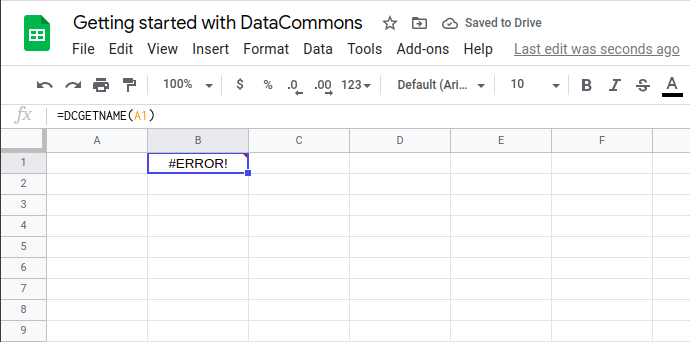
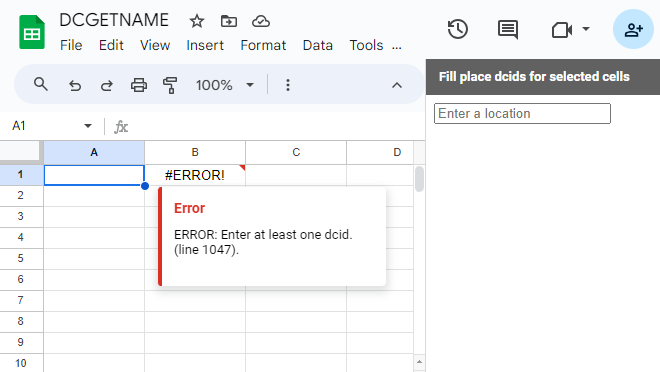
Updates to Sheets get_name.md file (#369)
* Updates to Sheets get_name.md file

* Updates from Carolyn's comments

* Forgot to update the Gemfiles

* Updates from Carolyn

* Added alt text to images

* Apply suggestions from code review

* Text and image updates

* remove obsolete images

* pr comments; formatting updates

* formatting updates

---------

diff --git a/api/sheets/get_name.md b/api/sheets/get_name.md
@@ -1,46 +1,72 @@
 ---
 layout: default
-title: Node Name
+title: Names Associated with a DCID
 nav_order: 1
 parent: Google Sheets
 grand_parent: API
 ---
 
-# Get a node's name
+# Returning the Names Associated with a DCID
 
-Given a cell or a column range of cells with [DCIDs](/glossary.html#dcid) (unique identifiers for all entities in the Data Commons knowledge graph), return the names associated with the given DCIDs.
+The `=DCGETNAME(dcids)` formula returns the names associated with given [DCIDs](/glossary.html#dcid) to a cell or a column range of cells.
 
-## General information about this formula
+> **Note**: Be sure to follow the instructions for [Installing and Enabling the Sheets Add-On](/api/sheets/) before using this formula.
 
-**Formula**: `=DCGETNAME(dcids)`
+## Formula
 
-**Required arguments**:
+```
+=DCGETNAME(dcids)
+```
 
-* `dcids` - A list of nodes to query, identified by their DCIDs.
+### Required Arguments
+
+`dcids` - A list of [node DCID](/glossary.html#dcid)s to query.
+
+## Returns
+
+The names associated with given node DCIDs to a cell or a range of cells.
+
+> **Note**: It’s best to minimize the number of function calls to `=DCGETNAME(dcids)` by using a single call to get the names for a column of nodes. This is because a spreadsheet will make one call to a Google server [*per custom function call*](https://developers.google.com/apps-script/guides/sheets/functions#optimization). If your sheet contains thousands of separate calls to `=DCGETNAME(dcids)` you can expect it to be slow and return with errors.
 
 ## Examples
 
-Before trying this method out, make sure to follow the setup directions in [the main section for Sheets docs](/api/sheets/index.html).
+This section contains examples of returning the names associated with given DCIDs.
 
-### Example 1: Retrieve the name of a country by its DCID.
+### Example 1: Retrieve the Name of a Place by its DCID
 
-![](/assets/images/sheets/sheets_get_name_cote_d_ivoire_cropped.png)
+To retrieve the name of a place by its DCID, perform the following steps:
 
-### Example 2: Retrieve the names of a collection of cell lines.
+1. Place your cursor in the cell where you want to add a DCID. In this case, cell A1.
+1. Move to the cell where you want to retrieve the place name.
+1. Enter the formula <code><b>=DCGETNAME(A1)</b></code> to retrieve the name.  *California* populates the cell.
 
-![](/assets/images/sheets/sheets_get_name_cell_lines_cropped.png)
+![Retrieving the name of a country by its DCIC](/assets/images/sheets/sheets_get_name_california.png)
 
->  **TIP:**
->
->  It's best to minimize the number of function calls to `DCGETNAME` by using a single call to get names for a column of nodes. This is because a spreadsheet will make one call to a Google server [per custom function call](https://developers.google.com/apps-script/guides/sheets/functions#optimization). If your sheet contains thousands of separate calls to `DCGETNAME`, expect it to be slow and with errors.
+### Example 2: Retrieve the Names of a Collection of Power Plants
 
+To retrieve the names of a collection of power plants, perform the following steps:
 
-## Error returns
+1. Enter into column A the DCIDs that are shown in the following image.
+1. In cell B2, enter the formula <code><b>=DCGETNAME(A2:A4)</b></code>. The names of the countries for each DCID populates in column B.
 
-If a DCID does not exist, this method returns nothing:
+![Retrieving the names of a collection of power plants](/assets/images/sheets/sheets_get_name_power_plant.png)
 
-![](/assets/images/sheets/sheets_get_name_wrong_dcid_cropped.png)
+### Example 3: Retrieve the names of a list of statistical variables
 
-If an empty cell is provided as a DCID, this method returns an error value:
+Statistical Variables are also nodes in the Data Commons Graph with a DCID. To retrieve the names of a list of statistical variables, perform the following steps:
 
-![](/assets/images/sheets/sheets_get_name_no_input_cropped.png)
+1. Enter into column A the DCIDs that are shown in the following image.
+1. In cell B2, enter the formula <code><b>=DCGETNAME(A2:A4)</b></code>. The names of the countries for each DCID populates in column B.
+
+![Retrieving the names of a collection of power plants](/assets/images/sheets/sheets_get_name_sv.png)
+
+## Error Responses
+
+If a DCID does not exist, the `=DCGETNAME(dcids)` formula does not return a value. For example, because the “geoId/123123123” DCID does not exist, no value is returned to cell B1 in the following sheet:
+
+![No value returned for a DCID that does not exist](/assets/images/sheets/sheets_get_name_wrong_dcid_cropped.png)
+
+If you provide an empty cell for a DCID, the `=DCGETNAME(dcids)` formula returns a value of #ERROR!, as shown show in the following image:
+
+![#ERROR! value returned for an empty cell for a DCID](/assets/images/sheets/sheets_get_name_no_input_cropped.png)
+

diff --git a/api/sheets/get_property.md b/api/sheets/get_property.md
@@ -27,10 +27,9 @@ The `=DCPROPERTY(dcids, property)` formula returns values associated with the gi
 
 ## Returns
 
-The value of the property label for the specified DCIDs.
+The values of the property label for the specified DCIDs.
 
 > **Note**:
-> 
 > It’s best to minimize the number of function calls to `=DCPROPERTY(dcids, property)` by using a single call to get the names for a column of nodes. This is because a spreadsheet will make one call to a Google server [*per custom function call*](https://developers.google.com/apps-script/guides/sheets/functions#optimization). If your sheet contains thousands of separate calls to `=DCPROPERTY(dcids, property)` you can expect it to be slow and return with errors.
 
 ## Examples
@@ -42,9 +41,9 @@ This section contains examples of using the `=DCPROPERTY(dcids, property)` to re
 To retrieve the name of a country by its DCID, perform the following steps:
 
 1. Place your cursor in the cell where you want to add a DCID. In this case, cell A1.
-2. Enter "country/CIV" for the country Ivory Coast.
-3. Next, place your cursor in cell B2 and enter `=DCPROPERTY(A1, "name")` to retrieve the Ivory Coast country name in column B.
-4. Press **Enter** and the French and English spellings for Ivory Coast appear in column B.
+2. Enter <code><b>country/CIV</b></code> for the country Ivory Coast.
+3. Next, place your cursor in cell B2 and enter <code><b>=DCPROPERTY(A1, "name")</b></code> to retrieve the Ivory Coast country names in column B.
+4. Note that the French and English spellings for Ivory Coast appear in column B.
 
 ![Retrieve the Common Name of a Country by its DCID](/assets/images/sheets/sheets_get_property_ivory_coast.png)
 
@@ -53,9 +52,9 @@ To retrieve the name of a country by its DCID, perform the following steps:
 To retrieve the order to which the plant *Austrobaileya Scandens* belongs, perform the following steps:
 
 1. Place your cursor in the cell where you want to add a DCID. In this case, cell A1.
-2. Enter "dc/bsmvthtq89217" for the plant *Austrobaileya Scandens*.
-3. Place your cursor in cell B2 and enter `=DCPROPERTY(A1, "order")`.
-4. Press **Enter** and the order *Austrobaileyales* appears in cell B2.
+2. Enter <code><b>dc/bsmvthtq89217</b></code> for the plant *Austrobaileya Scandens*.
+3. Place your cursor in cell B2 and enter <code><b>=DCPROPERTY(A1, "order")</b></code>.
+4. Note that the order *Austrobaileyales* appears in cell B2.
 
 ![Retrieve the Order to which the Plant Austrobaileya Scandens Belongs](/assets/images/sheets/sheets_get_property_austrobaileyales_order.png)
 
@@ -63,9 +62,9 @@ To retrieve the order to which the plant *Austrobaileya Scandens* belongs, perfo
 
 To retrieve the addresses of Stuyvesant High School in New York and Gunn High School in California, perform the following steps:
 
-1. Place your cursor in cell A1 and enter "nces/360007702877" for *Stuyvesant Hight School in New York*.
-2. Place your cursor in cell A2 and enter "nces/062961004587" for *Gunn High School in California*.
-3. Enter the formula `=DCPROPERTY(A1:A2,"address")` into cell B2 and the addresses of both high schools are populated in column B.
+1. Place your cursor in cell A1 and enter <code><b>nces/360007702877</b></code> for *Stuyvesant Hight School in New York*.
+2. Place your cursor in cell A2 and enter <code><b>nces/062961004587</b></code> for *Gunn High School in California*.
+3. Enter the formula <code><b>=DCPROPERTY(A1:A2, "address")</b></code> into cell B2 and the addresses of both high schools are populated in column B.
 
 ![Retrieve the Addresses of Stuyvesant High School in New York and Gunn High School in California](/assets/images/sheets/sheets_get_property_school_addresses.png)
 

diff --git a/api/sheets/places_in.md b/api/sheets/places_in.md
@@ -10,9 +10,7 @@ grand_parent: API
 
 The `=DCPLACESIN(dcids, placeType)` formula returns lists of child places from a list of parent [Place](https://datacommons.org/browser/Place) [DCIDs](https://docs.datacommons.org/glossary.html#dcid). It only returns children with a place type that matches the `placeType` parameter, such as [State](https://datacommons.org/browser/State), [Country](https://datacommons.org/browser/Country), and so on.
 
-> **Note**
->
-> Be sure to follow the instructions for [Installing and Enabling the Sheets Add-On](/api/sheets/) before using this formula.
+> **Note**: Be sure to follow the instructions for [Installing and Enabling the Sheets Add-On](/api/sheets/) before using this formula.
 
 ## Formula
 
@@ -22,7 +20,7 @@ The `=DCPLACESIN(dcids, placeType)` formula returns lists of child places from a
 
 ## Required Arguments
 
-* `dcids`: A list of parent `Place` nodes, identified by their DCIDs.
+* `dcids`: A list of parent [Place](/glossary.html#place) nodes, identified by their [DCIDs](/glossary.html#dcid).
 * `placeType`: The type of the contained child `Place` nodes to filter by. For example,`City` and `County`are contained within `State`. For a full list of available types, see [the Data Commons graph browser entry for Place](https://datacommons.org/browser/Place).
 
 ## Returns
